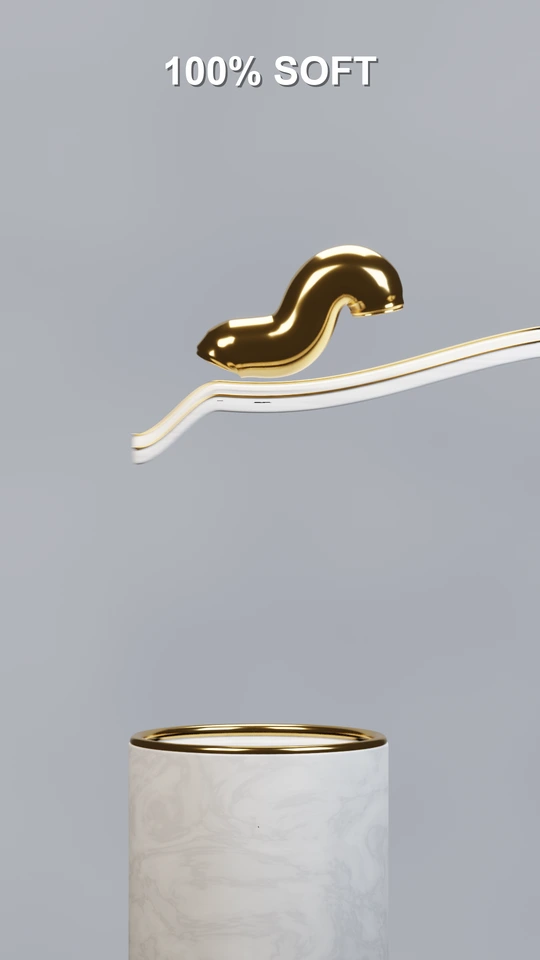
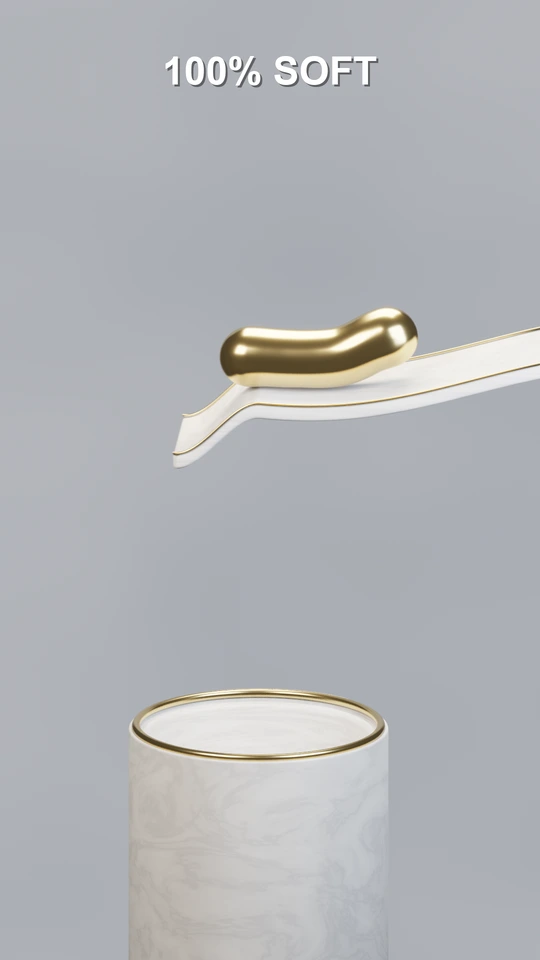
fix: render soft body at true production quality

Changed region(s): [[0.237, 0.25, 1.0, 0.5], [0.237, 0.7188, 0.7407, 0.8125]]

diff --git a/web/scripts/blender-soft-body-slide.py b/web/scripts/blender-soft-body-slide.py
@@ -18,7 +18,7 @@ from mathutils import Vector
 SCRIPT_DIR = Path(__file__).resolve().parent
 if str(SCRIPT_DIR) not in sys.path:
     sys.path.insert(0, str(SCRIPT_DIR))
-from soft_body_variants import SoftBodyVariant, variant_for_seed
+from soft_body_variants import SoftBodyVariant, solver_timing, variant_for_seed
 
 
 
@@ -36,6 +36,11 @@ def arguments() -> argparse.Namespace:
     parser.add_argument("--events")
     parser.add_argument("--theme", choices=("neon", "sunset", "ice"), required=True)
     parser.add_argument("--title", required=True)
+    parser.add_argument(
+        "--build-only",
+        action="store_true",
+        help="Save the fully simulated .blend without rendering frames (for chunked native rendering).",
+    )
     return parser.parse_args(sys.argv[sys.argv.index("--") + 1 :])
 
 
@@ -163,7 +168,7 @@ def background_material(variant: SoftBodyVariant):
 
 def liquid_gold_material(seed: int, variant: SoftBodyVariant):
     variation = ((seed % 997) / 996.0 - 0.5) * 0.025
-    base = mix_color(variant.palette.metal, (0.84, 0.58, 0.17), 0.74)
+    base = mix_color(variant.palette.metal, (0.93, 0.72, 0.32), 0.84)
     value = material(
         f"{variant.palette.label} liquid metal",
         (
@@ -173,8 +178,8 @@ def liquid_gold_material(seed: int, variant: SoftBodyVariant):
             1,
         ),
         metallic=1.0,
-        roughness=max(0.105, min(0.145, variant.palette.metal_roughness * 0.82)),
-        clearcoat=0.36,
+        roughness=max(0.18, min(0.23, variant.palette.metal_roughness * 1.28)),
+        clearcoat=0.24,
     )
     nodes, links = value.node_tree.nodes, value.node_tree.links
     shader = nodes.get("Principled BSDF")
@@ -243,7 +248,7 @@ def effective_ramp_exit_time(variant: SoftBodyVariant, trial_duration: float) ->
     # Presets were authored for three-second trials.  Longer cinematic trials
     # keep the ramp alive for multiple sweeps, then reserve the same natural
     # fall/landing window at the end.
-    landing_window = 3.0 - variant.ramp.exit_time
+    landing_window = max(1.72, 3.0 - variant.ramp.exit_time)
     return max(0.8, trial_duration - landing_window)
 
 
@@ -425,7 +430,7 @@ def constrain_distance(points, first: int, second: int, target: float, strength:
 
 def constrain_self_collision(points, radii, neighbor_skip: int, softness: float) -> None:
     """Prevent distant sections of the capsule from passing through each other."""
-    separation_scale = 0.76 - softness * 0.08
+    separation_scale = 0.96 - softness * 0.04
     for first in range(len(points) - neighbor_skip):
         for second in range(first + neighbor_skip, len(points)):
             delta = points[second] - points[first]
@@ -435,6 +440,29 @@ def constrain_self_collision(points, radii, neighbor_skip: int, softness: float)
                 correction = delta * ((minimum - distance) / distance * 0.34)
                 points[first] -= correction
                 points[second] += correction
+
+
+def smooth_centerline(points, rest: float, passes: int):
+    """Remove solver chatter without shortening the physical rod."""
+    result = [point.copy() for point in points]
+    for _ in range(passes):
+        center_before = sum(result, Vector((0.0, 0.0))) / len(result)
+        smoothed = [result[0] * 0.84 + result[1] * 0.16]
+        for index in range(1, len(result) - 1):
+            smoothed.append(
+                result[index - 1] * 0.14
+                + result[index] * 0.72
+                + result[index + 1] * 0.14
+            )
+        smoothed.append(result[-1] * 0.84 + result[-2] * 0.16)
+        for projection in range(5):
+            direction = range(len(smoothed) - 1) if projection % 2 == 0 else range(len(smoothed) - 2, -1, -1)
+            for index in direction:
+                constrain_distance(smoothed, index, index + 1, rest, 0.72)
+        center_after = sum(smoothed, Vector((0.0, 0.0))) / len(smoothed)
+        shift = center_before - center_after
+        result = [point + shift for point in smoothed]
+    return result
 
 
 def collide_point(
@@ -516,7 +544,10 @@ def collide_point(
 def simulate_chain(softness_percent: int, frame_count: int, fps: int, variant: SoftBodyVariant):
     softness = softness_percent / 100.0
     node_count = 41
-    half_length = variant.shape.cylinder_half + variant.shape.radius
+    # The simulated spine covers the cylindrical section only.  Hemispherical
+    # caps are reconstructed around its endpoints, so their collision radius
+    # never collapses into the needle-like poles produced by the old solver.
+    half_length = variant.shape.cylinder_half
     rest = 2.0 * half_length / (node_count - 1)
     rotation = variant.start_rotation
     points = []
@@ -536,22 +567,18 @@ def simulate_chain(softness_percent: int, frame_count: int, fps: int, variant: S
     node_impact_memory = [0.0] * node_count
     trial_duration = frame_count / fps
     exit_time = effective_ramp_exit_time(variant, trial_duration)
-    substeps = 24
-    dt = 1.0 / (fps * substeps)
+    # Render FPS must never change the game outcome.  The previous code used
+    # 24 solver steps *per rendered frame*, so a 30 FPS production render had
+    # ten times more damping/constraints than a 3 FPS scout.  Keep a stable
+    # physics clock and only sample it at the requested render cadence.
+    substeps, dt, horizontal_damping, vertical_damping = solver_timing(fps, softness)
     iterations = max(40, round(88 - softness * 44))
-    target_bend = max(0.12, 1.0 - 0.88 * softness ** 1.5)
+    target_bend = max(0.30, 1.0 - 0.70 * softness ** 1.35)
     bend_strength = 1.0 - (1.0 - target_bend) ** (1.0 / iterations)
-    horizontal_damping = 0.974 - softness * 0.064
-    vertical_damping = 0.993 - softness * 0.005
-    collision_radii = []
-    for index in range(node_count):
-        axial = -half_length + 2.0 * half_length * index / (node_count - 1)
-        cap_distance = max(0.0, abs(axial) - variant.shape.cylinder_half)
-        cross_radius = math.sqrt(
-            max(0.0, variant.shape.radius * variant.shape.radius - cap_distance * cap_distance)
-        )
-        collision_radii.append(max(variant.shape.radius * 0.055, cross_radius))
-    neighbor_skip = max(6, math.ceil(2.0 * variant.shape.radius * 0.76 / rest) + 1)
+    target_long_bend = max(0.16, 1.0 - 0.84 * softness ** 1.28)
+    long_bend_strength = 1.0 - (1.0 - target_long_bend) ** (1.0 / iterations)
+    collision_radii = [variant.shape.radius] * node_count
+    neighbor_skip = max(5, math.ceil(2.0 * variant.shape.radius * 0.86 / rest) + 1)
 
     for frame in range(frame_count):
         frame_intensity = 0.0
@@ -589,6 +616,13 @@ def simulate_chain(softness_percent: int, frame_count: int, fps: int, variant: S
                     bend_direction = range(node_count - 2) if iteration % 2 == 0 else range(node_count - 3, -1, -1)
                     for index in bend_direction:
                         constrain_distance(points, index, index + 2, rest * 2.0, bend_strength)
+                    for index in range(node_count - 4):
+                        constrain_distance(points, index, index + 4, rest * 4.0, long_bend_strength)
+                    if iteration % 2 == 0:
+                        for index in range(node_count - 8):
+                            constrain_distance(
+                                points, index, index + 8, rest * 8.0, long_bend_strength * 0.30
+                            )
                     if softness >= 0.45 and iteration % 4 == 0:
                         constrain_self_collision(points, collision_radii, neighbor_skip, softness)
                     for index in range(node_count):
@@ -675,11 +709,12 @@ def skin_capsule(
     frame: int,
     variant: SoftBodyVariant,
 ):
-    half_length = variant.shape.cylinder_half + variant.shape.radius
+    half_length = variant.shape.cylinder_half
     node_count = len(chain_points)
+    rest = 2.0 * half_length / (node_count - 1)
     center = sum(chain_points, Vector((0.0, 0.0))) / node_count
     rigid_tangent = (chain_points[-1] - chain_points[0]).normalized()
-    visible_deformation = softness ** 1.18
+    visible_deformation = softness ** 1.18 * (0.96 - 0.06 * softness)
     displayed_points = []
     for index, point in enumerate(chain_points):
         local_x = -half_length + 2.0 * half_length * index / (node_count - 1)
@@ -688,16 +723,11 @@ def skin_capsule(
     # Reconstruct a continuous rod rather than exposing individual solver
     # particles.  Broad folds survive while the bead-like high frequencies do
     # not, which is the defining visual difference in the OopsiLab reference.
-    for _ in range(max(0, round(softness * 9.0))):
-        smoothed = [displayed_points[0] * 0.80 + displayed_points[1] * 0.20]
-        for index in range(1, node_count - 1):
-            smoothed.append(
-                displayed_points[index - 1] * 0.17
-                + displayed_points[index] * 0.66
-                + displayed_points[index + 1] * 0.17
-            )
-        smoothed.append(displayed_points[-1] * 0.80 + displayed_points[-2] * 0.20)
-        displayed_points = smoothed
+    displayed_points = smooth_centerline(
+        displayed_points,
+        rest,
+        max(0, round(softness * 6.0)),
+    )
     smoothed_impacts = list(node_impacts)
     for _ in range(7):
         smoothed_impacts = [smoothed_impacts[0]] + [
@@ -709,26 +739,40 @@ def skin_capsule(
     result = []
     for base in base_vertices:
         x, y, z = base
-        coordinate = max(0.0, min(node_count - 1.000001, (x + half_length) / (2.0 * half_length) * (node_count - 1)))
-        first = int(math.floor(coordinate))
-        second = min(node_count - 1, first + 1)
-        blend = coordinate - first
+        axial_offset = 0.0
+        if x <= -half_length:
+            first = second = 0
+            blend = 0.0
+            axial_offset = x + half_length
+        elif x >= half_length:
+            first = second = node_count - 1
+            blend = 0.0
+            axial_offset = x - half_length
+        else:
+            coordinate = (x + half_length) / (2.0 * half_length) * (node_count - 1)
+            first = int(math.floor(coordinate))
+            second = min(node_count - 1, first + 1)
+            blend = coordinate - first
         center = displayed_points[first].lerp(displayed_points[second], blend)
         local_impact = smoothed_impacts[first] * (1.0 - blend) + smoothed_impacts[second] * blend
         before = displayed_points[max(0, first - 1)]
         after = displayed_points[min(node_count - 1, second + 1)]
         tangent = (after - before).normalized()
         normal = Vector((-tangent.y, tangent.x))
+        center += tangent * axial_offset
+        before_index = max(0, first - 1)
+        after_index = min(node_count - 1, second + 1)
+        expected_span = max(rest, (after_index - before_index) * rest)
         local_stretch = max(
-            0.58,
+            0.72,
             min(
-                1.55,
+                1.38,
                 (after - before).length
-                / max(0.001, 4.0 * half_length / (node_count - 1)),
+                / max(0.001, expected_span),
             ),
         )
-        volume_scale = max(0.78, min(1.28, 1.0 / math.sqrt(local_stretch)))
-        contact_compression = min(0.78, local_impact * (0.24 + softness * 0.62))
+        volume_scale = max(0.88, min(1.15, 1.0 / math.sqrt(local_stretch)))
+        contact_compression = min(0.62, local_impact * (0.18 + softness * 0.45))
         cross_radius = max(1e-5, math.sqrt(y * y + z * z))
         lower_weight = max(0.0, -z / cross_radius) ** 1.55
         upper_weight = max(0.0, z / cross_radius) ** 1.8
@@ -736,11 +780,11 @@ def skin_capsule(
         # orthogonal expansion approximates incompressible gel and removes the
         # implausible shrinking seen in the previous mesh.
         normal_scale = max(
-            0.50,
-            1.0 - contact_compression * (0.54 * lower_weight + 0.10 * upper_weight),
+            0.62,
+            1.0 - contact_compression * (0.46 * lower_weight + 0.08 * upper_weight),
         )
-        mean_height_scale = max(0.56, 1.0 - contact_compression * 0.30)
-        depth_scale = min(1.34, 1.0 / math.sqrt(mean_height_scale))
+        mean_height_scale = max(0.68, 1.0 - contact_compression * 0.24)
+        depth_scale = min(1.22, 1.0 / math.sqrt(mean_height_scale))
         radius_scale = volume_scale
         result.append(
             (
@@ -876,7 +920,7 @@ def add_receiver(marble, gold, variant: SoftBodyVariant):
         minor_segments=16,
         location=(receiver.x, 0.0, top),
         major_radius=(outer_radius + inner_radius) * 0.5,
-        minor_radius=(outer_radius - inner_radius) * 0.42,
+        minor_radius=(outer_radius - inner_radius) * 0.28,
     )
     rim = bpy.context.object
     rim.name = "Champagne receiver rim"
@@ -957,13 +1001,13 @@ def main() -> None:
             encoding="utf-8",
         )
 
-    bpy.ops.object.camera_add(location=(0.0, -14.8, 4.55))
+    bpy.ops.object.camera_add(location=(1.05, -14.8, 7.25))
     camera = bpy.context.object
     camera.name = "Fixed reference camera"
     camera.data.type = "ORTHO"
     camera.data.ortho_scale = 8.35
     camera.data.lens = 70
-    look_at(camera, (0.0, 0.0, 3.18))
+    look_at(camera, (0.0, 0.0, 3.12))
     bpy.context.scene.camera = camera
 
     key_color = mix_color(variant.palette.key_light, (1.0, 0.93, 0.83), 0.72)
@@ -987,7 +1031,7 @@ def main() -> None:
     if hasattr(scene.eevee, "use_high_quality_normals"):
         scene.eevee.use_high_quality_normals = True
     scene.eevee.use_motion_blur = True
-    scene.eevee.motion_blur_shutter = 0.18
+    scene.eevee.motion_blur_shutter = 0.08
     scene.eevee.taa_render_samples = args.samples
     scene.eevee.shadow_cube_size = "4096"
     scene.eevee.shadow_cascade_size = "4096"
@@ -1014,8 +1058,8 @@ def main() -> None:
     )
     scene.world.color = studio_world
     scene.view_settings.view_transform = "Filmic"
-    scene.view_settings.look = "High Contrast"
-    scene.view_settings.exposure = 0.22
+    scene.view_settings.look = "Medium High Contrast"
+    scene.view_settings.exposure = 0.38
     scene.view_settings.gamma = 1.0
     scene.render.use_file_extension = True
 
@@ -1023,7 +1067,8 @@ def main() -> None:
     frames.mkdir(parents=True, exist_ok=True)
     suffix = str(stages[0]) if len(stages) == 1 else "comparison"
     bpy.ops.wm.save_as_mainfile(filepath=str(frames / f"soft-body-{suffix}.blend"))
-    bpy.ops.render.render(animation=True)
+    if not args.build_only:
+        bpy.ops.render.render(animation=True)
 
 
 if __name__ == "__main__":

diff --git a/web/scripts/test_game_variants.py b/web/scripts/test_game_variants.py
@@ -11,7 +11,7 @@ import wave
 from pathlib import Path
 
 from game_variants import GAME_CLASSES
-from soft_body_variants import variant_for_seed
+from soft_body_variants import SHAPES, solver_timing, variant_for_seed
 ROOT = Path(__file__).resolve().parents[1]
 PREMIUM_IDS = ("soft-body-slide",)
 ENGINE_IDS = ("ball-escape", *GAME_CLASSES)
@@ -78,6 +78,27 @@ class SoftBodyVariantTests(unittest.TestCase):
     def test_variant_catalog_has_at_least_2500_discrete_combinations(self):
         keys = {variant_for_seed(seed).key for seed in range(10_000)}
         self.assertGreaterEqual(len(keys), 2_500)
+
+    def test_capsule_presets_remain_slender_and_reference_scaled(self):
+        for shape in SHAPES:
+            total_length = 2.0 * (shape.cylinder_half + shape.radius)
+            diameter = 2.0 * shape.radius
+            self.assertGreaterEqual(total_length / diameter, 2.75, shape.key)
+            self.assertLessEqual(total_length, 1.95, shape.key)
+
+    def test_native_filter_does_not_amplify_render_artifacts(self):
+        value = PREMIUM_RENDERER.build_video_filter(15.0, (0, 25, 50, 75, 100))
+        self.assertNotIn("unsharp", value)
+
+    def test_soft_body_solver_clock_is_render_fps_independent(self):
+        expected_horizontal = (0.974 - 0.064) ** 60.0
+        expected_vertical = (0.993 - 0.005) ** 60.0
+        for fps in (3, 24, 30, 60):
+            substeps, dt, horizontal, vertical = solver_timing(fps, 1.0)
+            steps_per_second = fps * substeps
+            self.assertAlmostEqual(dt * steps_per_second, 1.0, places=12)
+            self.assertAlmostEqual(horizontal ** steps_per_second, expected_horizontal, places=12)
+            self.assertAlmostEqual(vertical ** steps_per_second, expected_vertical, places=12)
 
 
 class SoftBodyAudioTests(unittest.TestCase):

diff --git a/web/scripts/soft_body_variants.py b/web/scripts/soft_body_variants.py
@@ -11,6 +11,18 @@ import random
 
 
 Color = tuple[float, float, float]
+PHYSICS_HZ = 240
+
+
+def solver_timing(fps: int, softness: float) -> tuple[int, float, float, float]:
+    """Return a render-FPS-independent solver clock and per-step damping."""
+    if fps <= 0:
+        raise ValueError("fps must be positive")
+    substeps = max(1, round(PHYSICS_HZ / fps))
+    actual_hz = fps * substeps
+    horizontal = (0.974 - softness * 0.064) ** (60.0 / actual_hz)
+    vertical = (0.993 - softness * 0.005) ** (60.0 / actual_hz)
+    return substeps, 1.0 / actual_hz, horizontal, vertical
 
 
 @dataclass(frozen=True)
@@ -92,11 +104,11 @@ class SoftBodyVariant:
 
 
 SHAPES = (
-    ShapePreset("classic-pill", "Classic pill", 0.37, 0.66, 0.15, 0.00),
-    ShapePreset("slender-cylinder", "Slender cylinder", 0.30, 0.84, 0.10, 0.02),
-    ShapePreset("plush-capsule", "Plush capsule", 0.43, 0.50, 0.055, 0.08),
-    ShapePreset("rounded-barrel", "Rounded barrel", 0.39, 0.58, 0.18, 0.14),
-    ShapePreset("rolled-gel", "Rolled gel", 0.35, 0.73, 0.08, -0.045),
+    ShapePreset("classic-pill", "Classic pill", 0.285, 0.58, 0.12, 0.00),
+    ShapePreset("slender-cylinder", "Slender cylinder", 0.235, 0.72, 0.08, 0.015),
+    ShapePreset("plush-capsule", "Plush capsule", 0.315, 0.56, 0.045, 0.055),
+    ShapePreset("rounded-barrel", "Rounded barrel", 0.295, 0.57, 0.13, 0.085),
+    ShapePreset("rolled-gel", "Rolled gel", 0.270, 0.62, 0.065, -0.025),
 )
 
 

diff --git a/web/scripts/render-premium-3d.py b/web/scripts/render-premium-3d.py
@@ -308,7 +308,6 @@ def build_video_filter(duration: float, stages: tuple[int, ...]) -> str:
     filters = [
         "fps=30:round=up",
         "scale=1080:1920:flags=lanczos",
-        "unsharp=5:5:0.18:3:3:0.0",
     ]
     segment = duration / len(stages)
     for index, softness in enumerate(stages):
